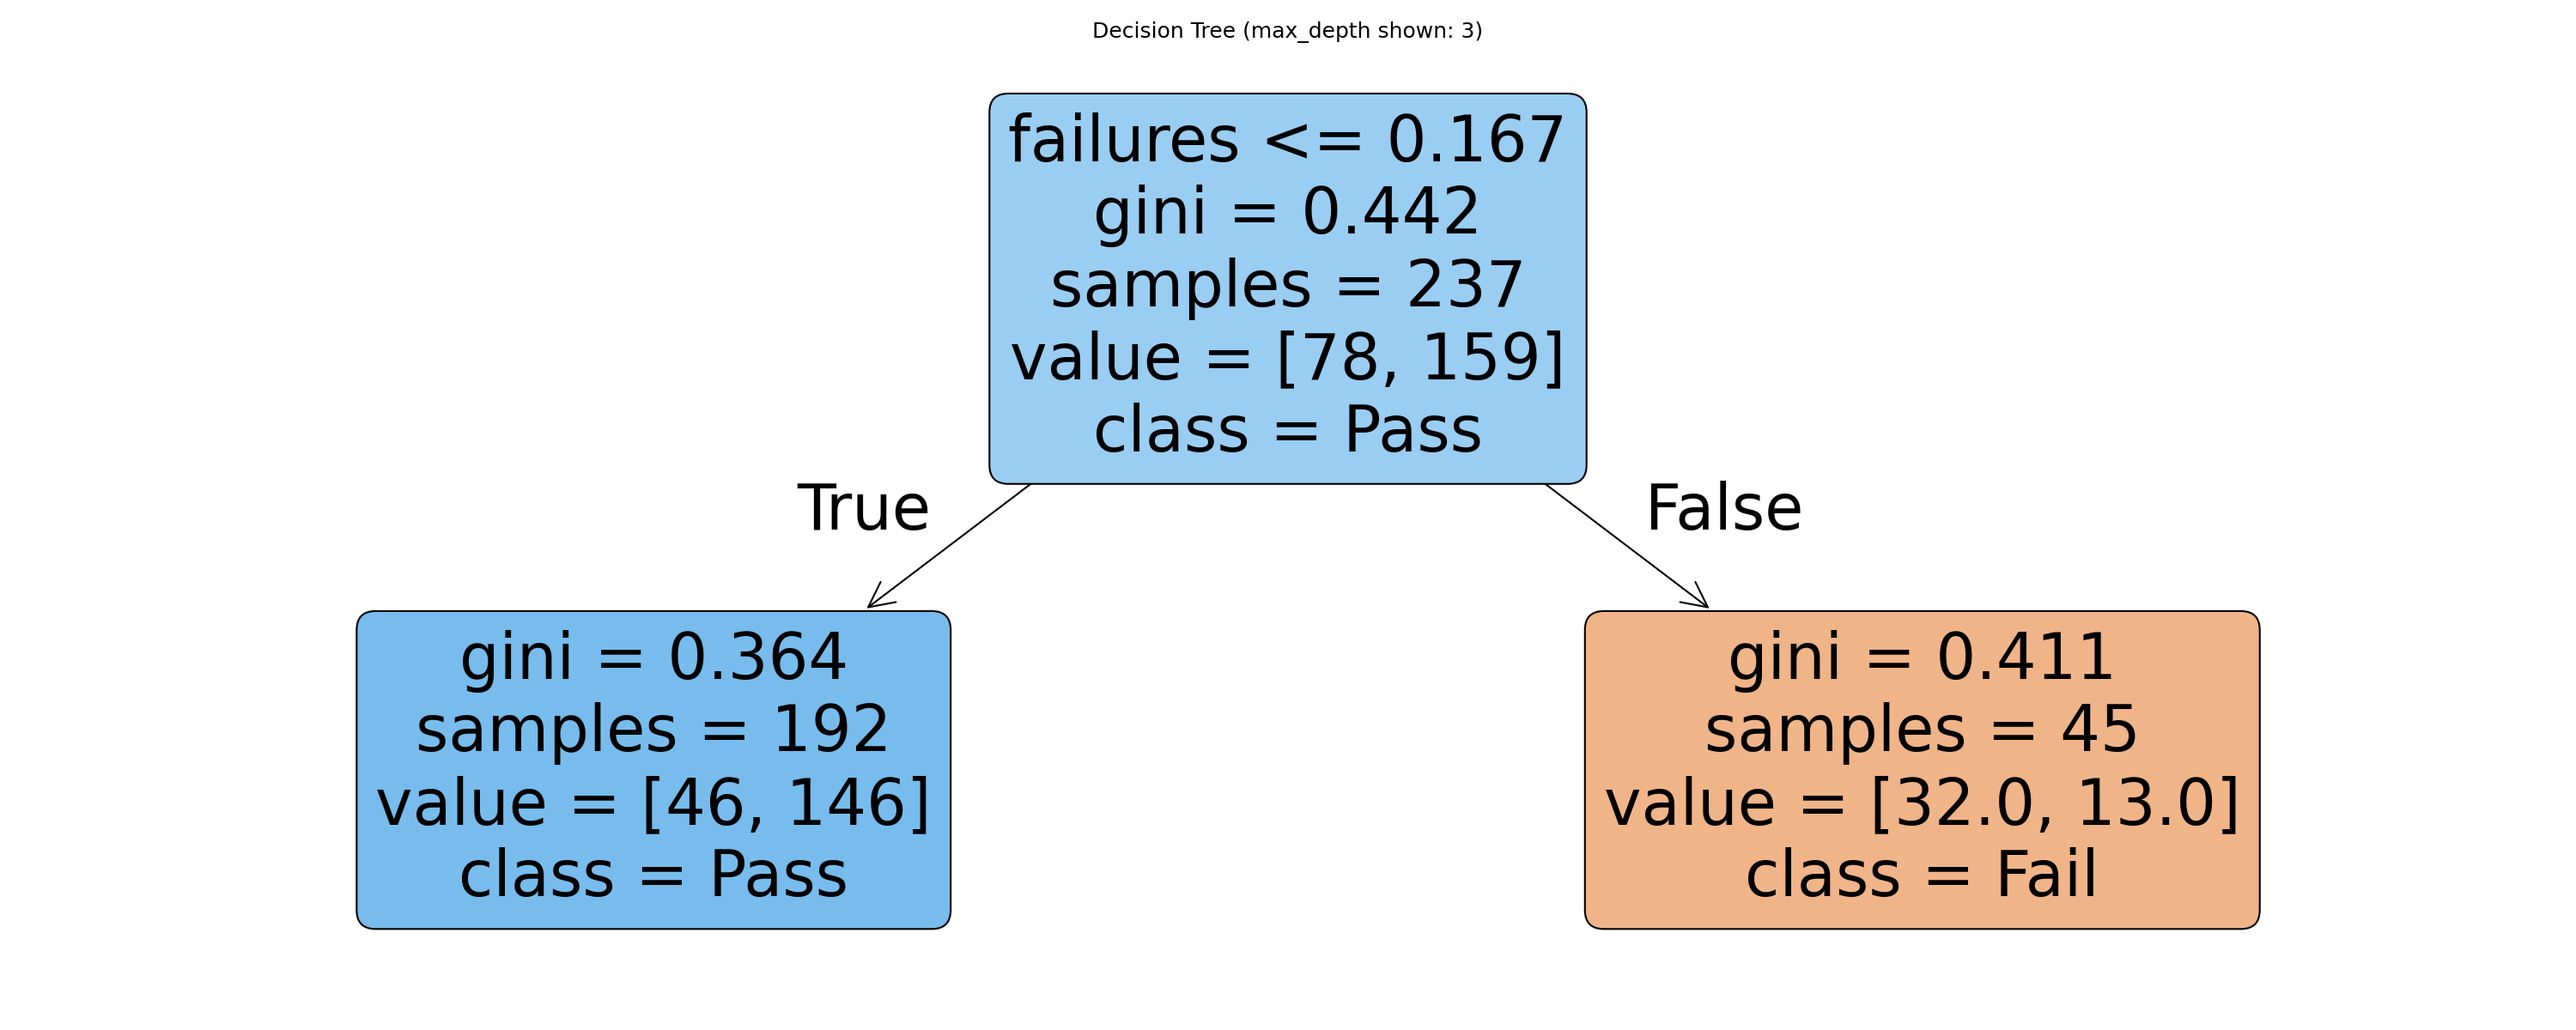
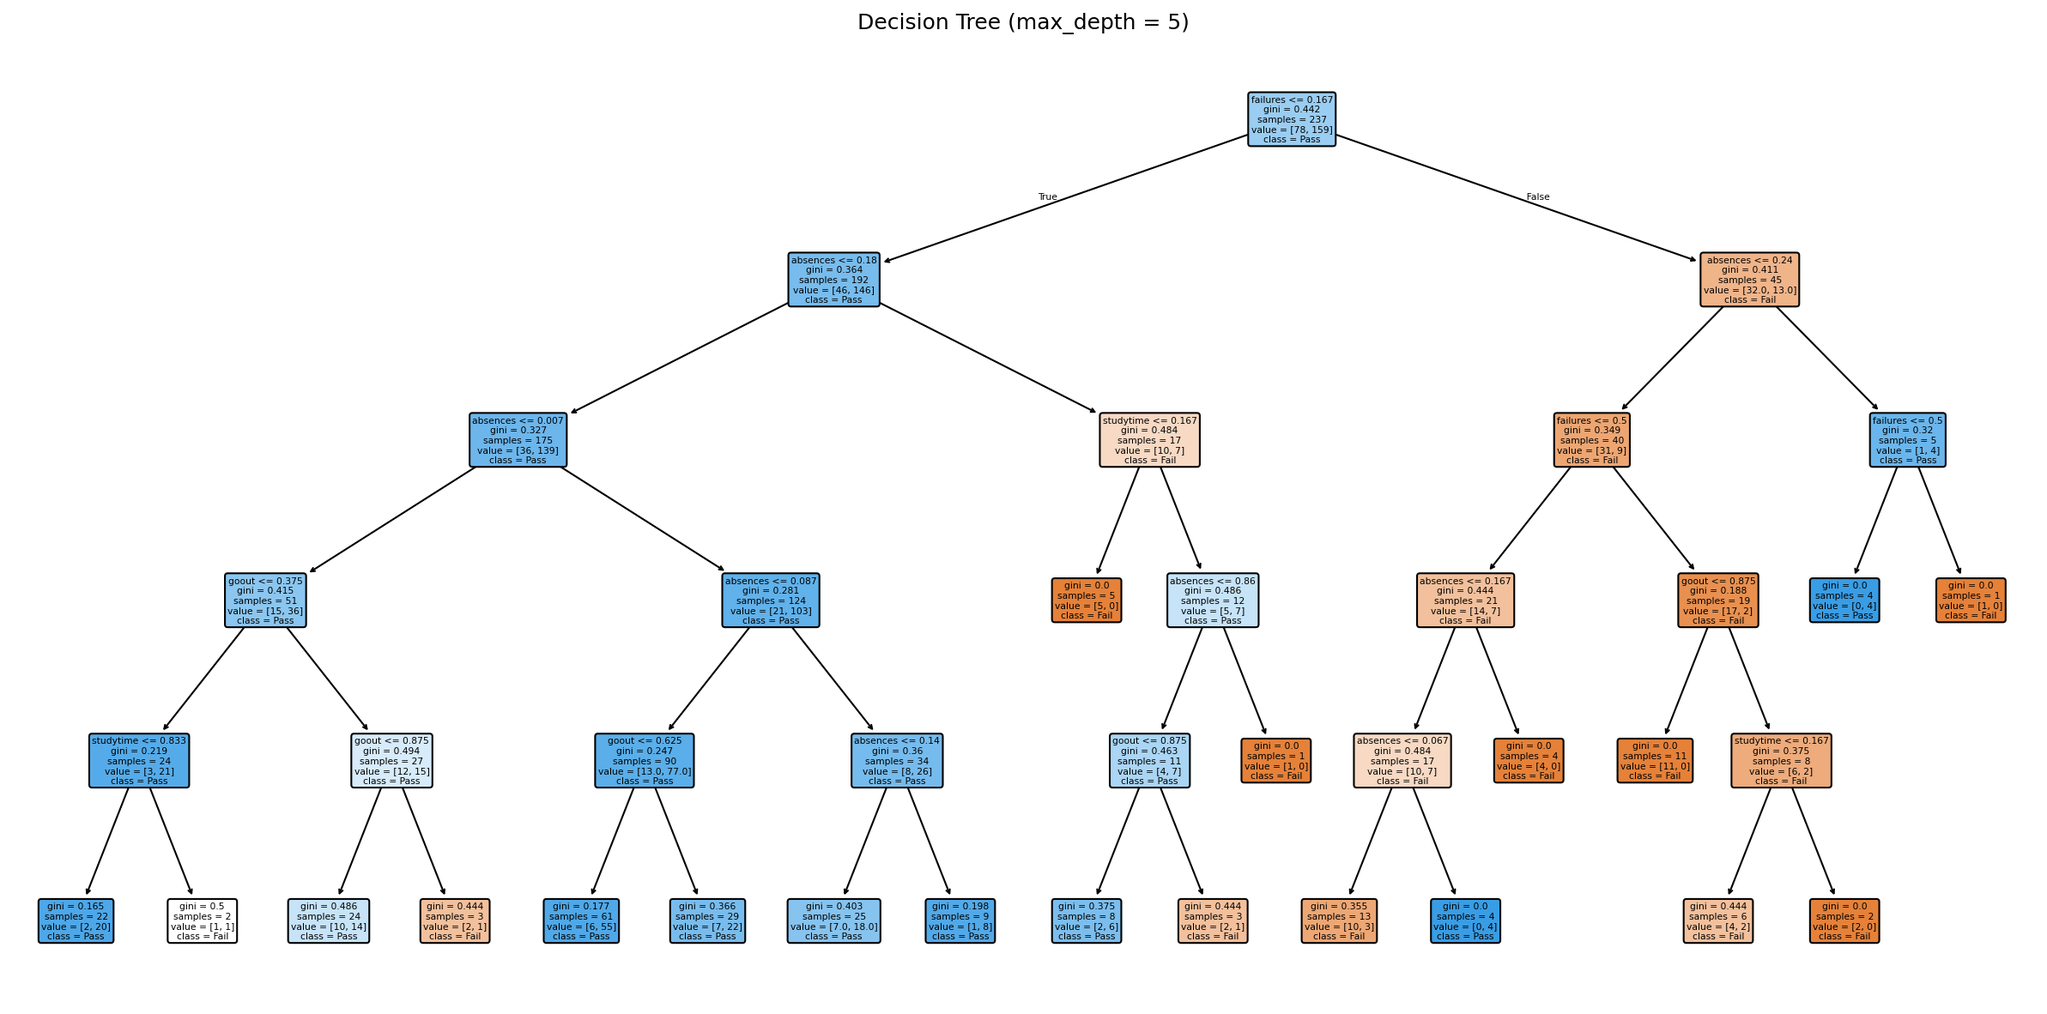
Feature fix

diff --git a/performance_predictor.py b/performance_predictor.py
@@ -2,8 +2,10 @@
 # Student Performance Predictor
 # Dataset: UCI Student Performance (student-mat.csv)
 # Algorithm: Decision Tree Classifier
+# Features: failures, studytime, absences, goout
 # ==========================================================
 
+import os
 import pandas as pd
 import numpy as np
 import matplotlib.pyplot as plt
@@ -11,11 +13,18 @@ import seaborn as sns
 
 from sklearn.tree import DecisionTreeClassifier, plot_tree
 from sklearn.model_selection import train_test_split, cross_val_score
-from sklearn.preprocessing import MinMaxScaler, LabelEncoder
+from sklearn.preprocessing import MinMaxScaler
 from sklearn.metrics import (
     accuracy_score, precision_score, recall_score,
     f1_score, confusion_matrix, classification_report
 )
+
+# Save images to the same folder as this script
+SCRIPT_DIR = os.path.dirname(os.path.abspath(__file__))
+def save(filename):
+    path = os.path.join(SCRIPT_DIR, filename)
+    plt.savefig(path, dpi=150, bbox_inches='tight')
+    print(f"Saved: {path}")
 
 # ----------------------------------------------------------
 # 1. LOAD DATASET
@@ -33,14 +42,16 @@ print("Total features:", len(df.columns))
 # 2. INITIAL DATA INSPECTION
 # ----------------------------------------------------------
 
+selected_raw = ["failures", "studytime", "absences", "goout", "G3"]
+
 print("\n--- Initial Data (Head) ---")
-print(df.head())
+print(df[selected_raw].head())
 
 print("\n--- Initial Data (Info) ---")
-print(df.info())
+print(df[selected_raw].info())
 
 print("\n--- Initial Data (Missing Values) ---")
-print(df.isnull().sum())
+print(df[selected_raw].isnull().sum())
 
 # ----------------------------------------------------------
 # 3. DATA CLEANING AND PREPROCESSING
@@ -48,44 +59,31 @@ print(df.isnull().sum())
 
 print("\n--- Data Cleaning ---")
 
-# Create binary target variable: Pass (1) if G3 >= 10, Fail (0) otherwise
+# Create binary target variable
 df["pass"] = (df["G3"] >= 10).astype(int)
 print("Target variable created: Pass =", df["pass"].sum(), "| Fail =", (df["pass"] == 0).sum())
 
-# Drop G1, G2, G3 to avoid data leakage (G3 is what we're predicting)
-df.drop(columns=["G1", "G2", "G3"], inplace=True)
+# Select only the 4 features + target
+features = ["failures", "studytime", "absences", "goout"]
+df = df[features + ["pass"]].copy()
 
-# Separate categorical and numerical columns
-categorical_cols = df.select_dtypes(include="object").columns.tolist()
-numerical_cols = df.select_dtypes(include=["int64", "float64"]).columns.tolist()
-numerical_cols.remove("pass")  # remove target from features
+print("\nFeatures selected:", features)
 
-print("\nCategorical columns:", categorical_cols)
-print("Numerical columns:", numerical_cols)
-
-# Label encode categorical columns
-le = LabelEncoder()
-for col in categorical_cols:
-    df[col] = le.fit_transform(df[col])
-
-print("\n--- Data After Encoding (Head) ---")
-print(df.head())
-
-# Normalize numerical columns
+# Normalize the 4 numerical features
 scaler = MinMaxScaler()
-df[numerical_cols] = scaler.fit_transform(df[numerical_cols])
+df[features] = scaler.fit_transform(df[features])
 
-print("\n--- Data After Normalization (Head, numerical columns) ---")
-print(df[numerical_cols].head())
+print("\n--- Data After Normalization (Head) ---")
+print(df[features].head())
 
 print("\n--- Data After Normalization (Descriptive Stats) ---")
-print(df[numerical_cols].describe())
+print(df[features].describe())
 
 # ----------------------------------------------------------
 # 4. SPLIT INTO TRAIN, VALIDATION, TEST SETS
 # ----------------------------------------------------------
 
-X = df.drop(columns=["pass"])
+X = df[features]
 y = df["pass"]
 
 # First split: 80% train+val, 20% test
@@ -119,11 +117,10 @@ for depth in depth_range:
     train_scores.append(accuracy_score(y_train, dt.predict(X_train)))
     val_scores.append(accuracy_score(y_val, dt.predict(X_val)))
 
-# Find best depth
 best_depth = depth_range[val_scores.index(max(val_scores))]
 print(f"Best max_depth: {best_depth} (Validation Accuracy: {max(val_scores):.4f})")
 
-# Plot max_depth vs accuracy
+# Plot
 plt.figure(figsize=(8, 5))
 plt.plot(depth_range, train_scores, label="Train Accuracy", marker="o")
 plt.plot(depth_range, val_scores, label="Validation Accuracy", marker="s")
@@ -133,9 +130,8 @@ plt.ylabel("Accuracy")
 plt.title("Decision Tree: max_depth vs Accuracy")
 plt.legend()
 plt.tight_layout()
-plt.savefig("hyperparameter_tuning.png", dpi=150)
+save("hyperparameter_tuning.png")
 plt.show()
-print("Saved: hyperparameter_tuning.png")
 
 # ----------------------------------------------------------
 # 6. TRAIN FINAL MODEL
@@ -190,39 +186,36 @@ plt.xlabel("Predicted")
 plt.ylabel("Actual")
 plt.title("Confusion Matrix")
 plt.tight_layout()
-plt.savefig("confusion_matrix.png", dpi=150)
+save("confusion_matrix.png")
 plt.show()
-print("Saved: confusion_matrix.png")
 
 # ----------------------------------------------------------
 # 10. FEATURE IMPORTANCE
 # ----------------------------------------------------------
 
 importances = best_dt.feature_importances_
-feature_names = X.columns
-feat_df = pd.DataFrame({"Feature": feature_names, "Importance": importances})
-feat_df = feat_df.sort_values("Importance", ascending=False).head(10)
+feat_df = pd.DataFrame({"Feature": features, "Importance": importances})
+feat_df = feat_df.sort_values("Importance", ascending=False)
 
-plt.figure(figsize=(8, 5))
-sns.barplot(x="Importance", y="Feature", data=feat_df, palette="viridis")
-plt.title("Top 10 Feature Importances")
+plt.figure(figsize=(7, 4))
+sns.barplot(x="Importance", y="Feature", data=feat_df,
+            hue="Feature", palette="viridis", legend=False)
+plt.title("Feature Importances")
 plt.tight_layout()
-plt.savefig("feature_importance.png", dpi=150)
+save("feature_importance.png")
 plt.show()
-print("Saved: feature_importance.png")
 
 # ----------------------------------------------------------
 # 11. DECISION TREE VISUALIZATION
 # ----------------------------------------------------------
 
-plt.figure(figsize=(20, 8))
-plot_tree(best_dt, feature_names=X.columns,
+plt.figure(figsize=(16, 8))
+plot_tree(best_dt, feature_names=features,
           class_names=["Fail", "Pass"],
-          filled=True, rounded=True, max_depth=3)
-plt.title("Decision Tree (max_depth shown: 3)")
+          filled=True, rounded=True)
+plt.title(f"Decision Tree (max_depth = {best_depth})")
 plt.tight_layout()
-plt.savefig("decision_tree.png", dpi=150)
+save("decision_tree.png")
 plt.show()
-print("Saved: decision_tree.png")
 
 print("\n✅ All done!")
